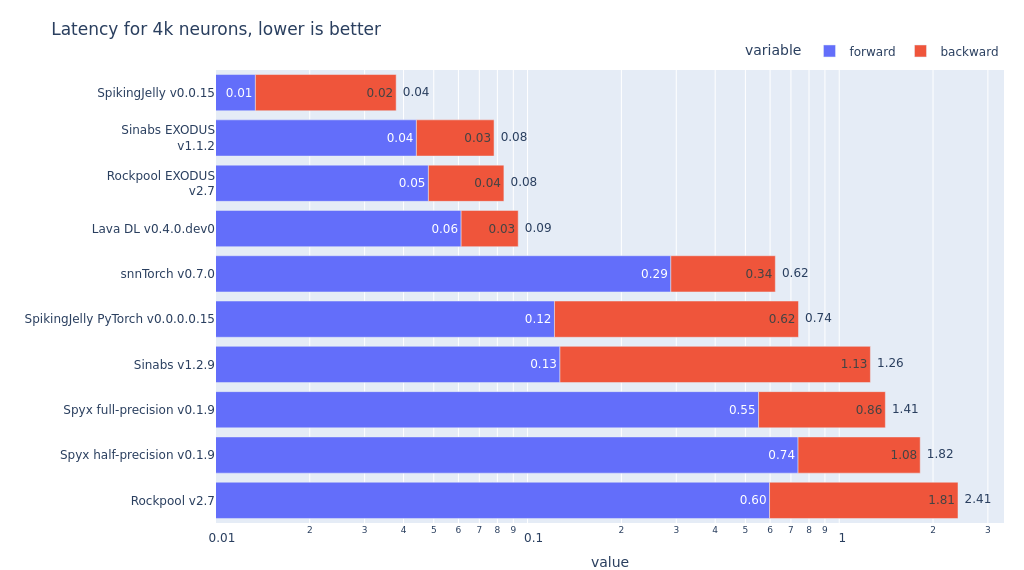
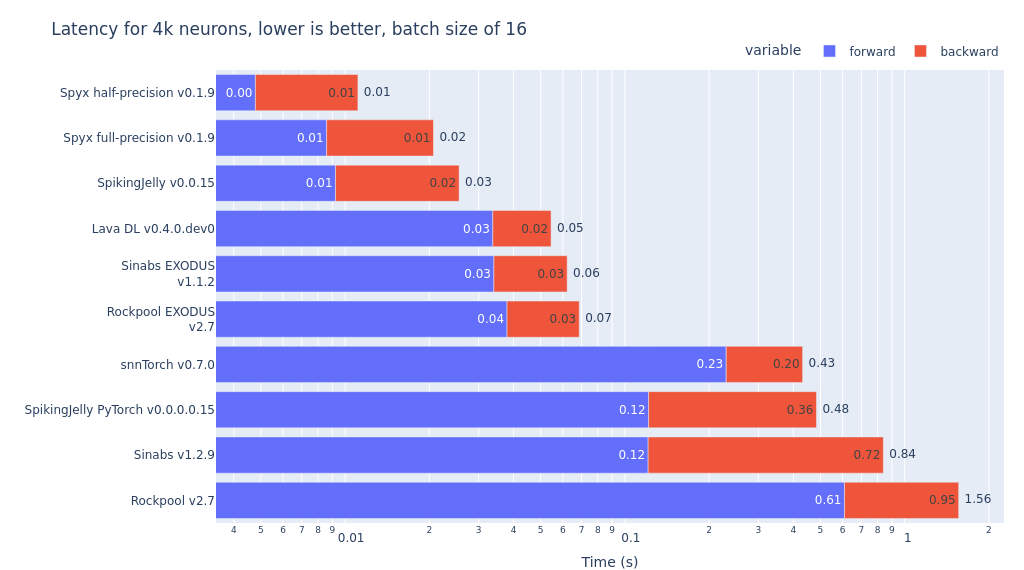
torch2.0.0 cuda11.8

diff --git a/content/english/blog/spiking-neural-network-framework-benchmarking/docker/run_benchmark.py b/content/english/blog/spiking-neural-network-framework-benchmarking/docker/run_benchmark.py
@@ -499,7 +499,7 @@ benchmarks = {
 if __name__ == "__main__":
     parser = argparse.ArgumentParser()
     parser.add_argument("benchmark", choices=benchmarks.keys())
-    parser.add_argument("batch_size")
+    parser.add_argument("batch_size", default=16)
     args = parser.parse_args()
 
     benchmark = benchmarks[args.benchmark]

diff --git a/content/english/blog/spiking-neural-network-framework-benchmarking/README.md b/content/english/blog/spiking-neural-network-framework-benchmarking/README.md
@@ -31,15 +31,10 @@ conda install lava-dl -c conda-forge
 
 # Docker
 
-The following command will build the docker image, generate the figures and copy them to this folder.
-32 is the batch size and the build agument specifies to build the docker image.
+The following commands will build the docker image, generate the figures and copy them to this folder.
+`./bench.sh` takes the batch size as its first argument.
 
 ```
-./bench.sh 32 build
-```
-
-Once you have the docker image installed you can simply run the following to rerun the benchmarks.
-
-```
+./build.sh
 ./bench.sh 32
 ```
